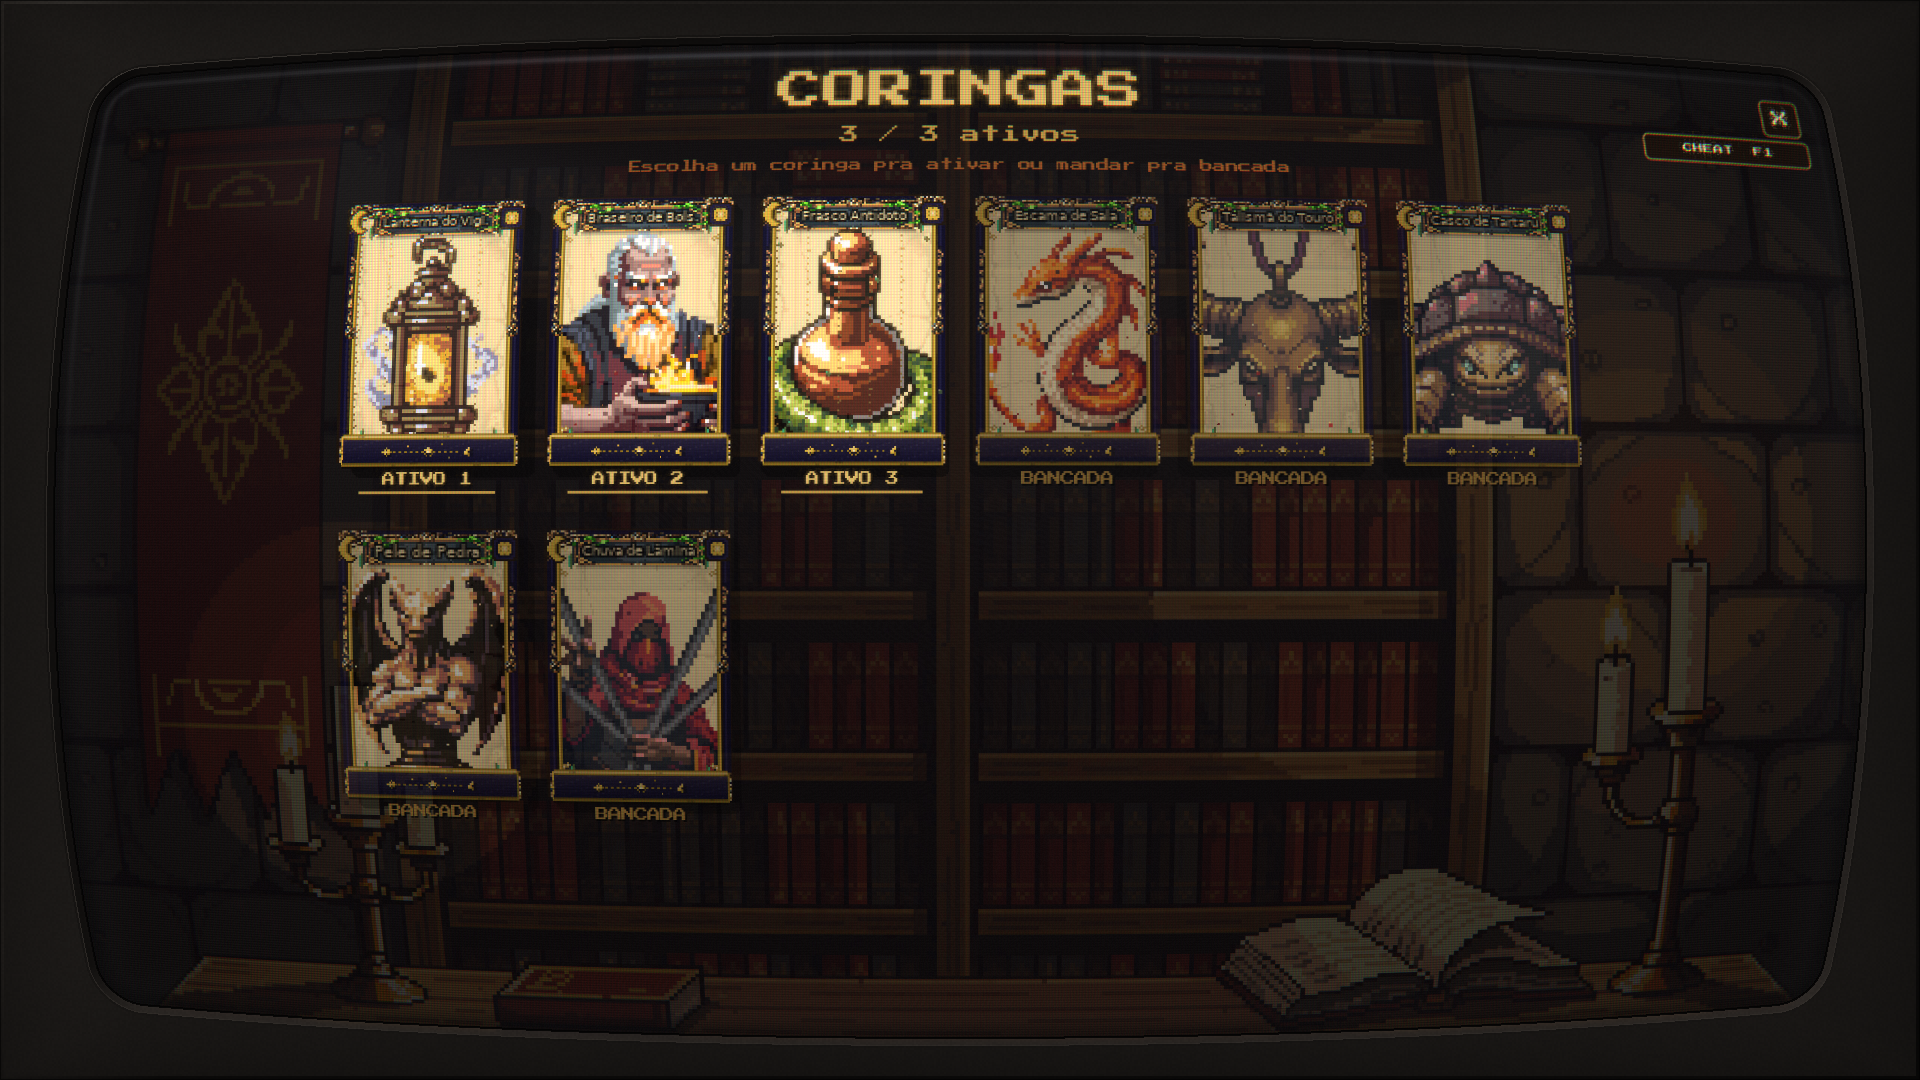
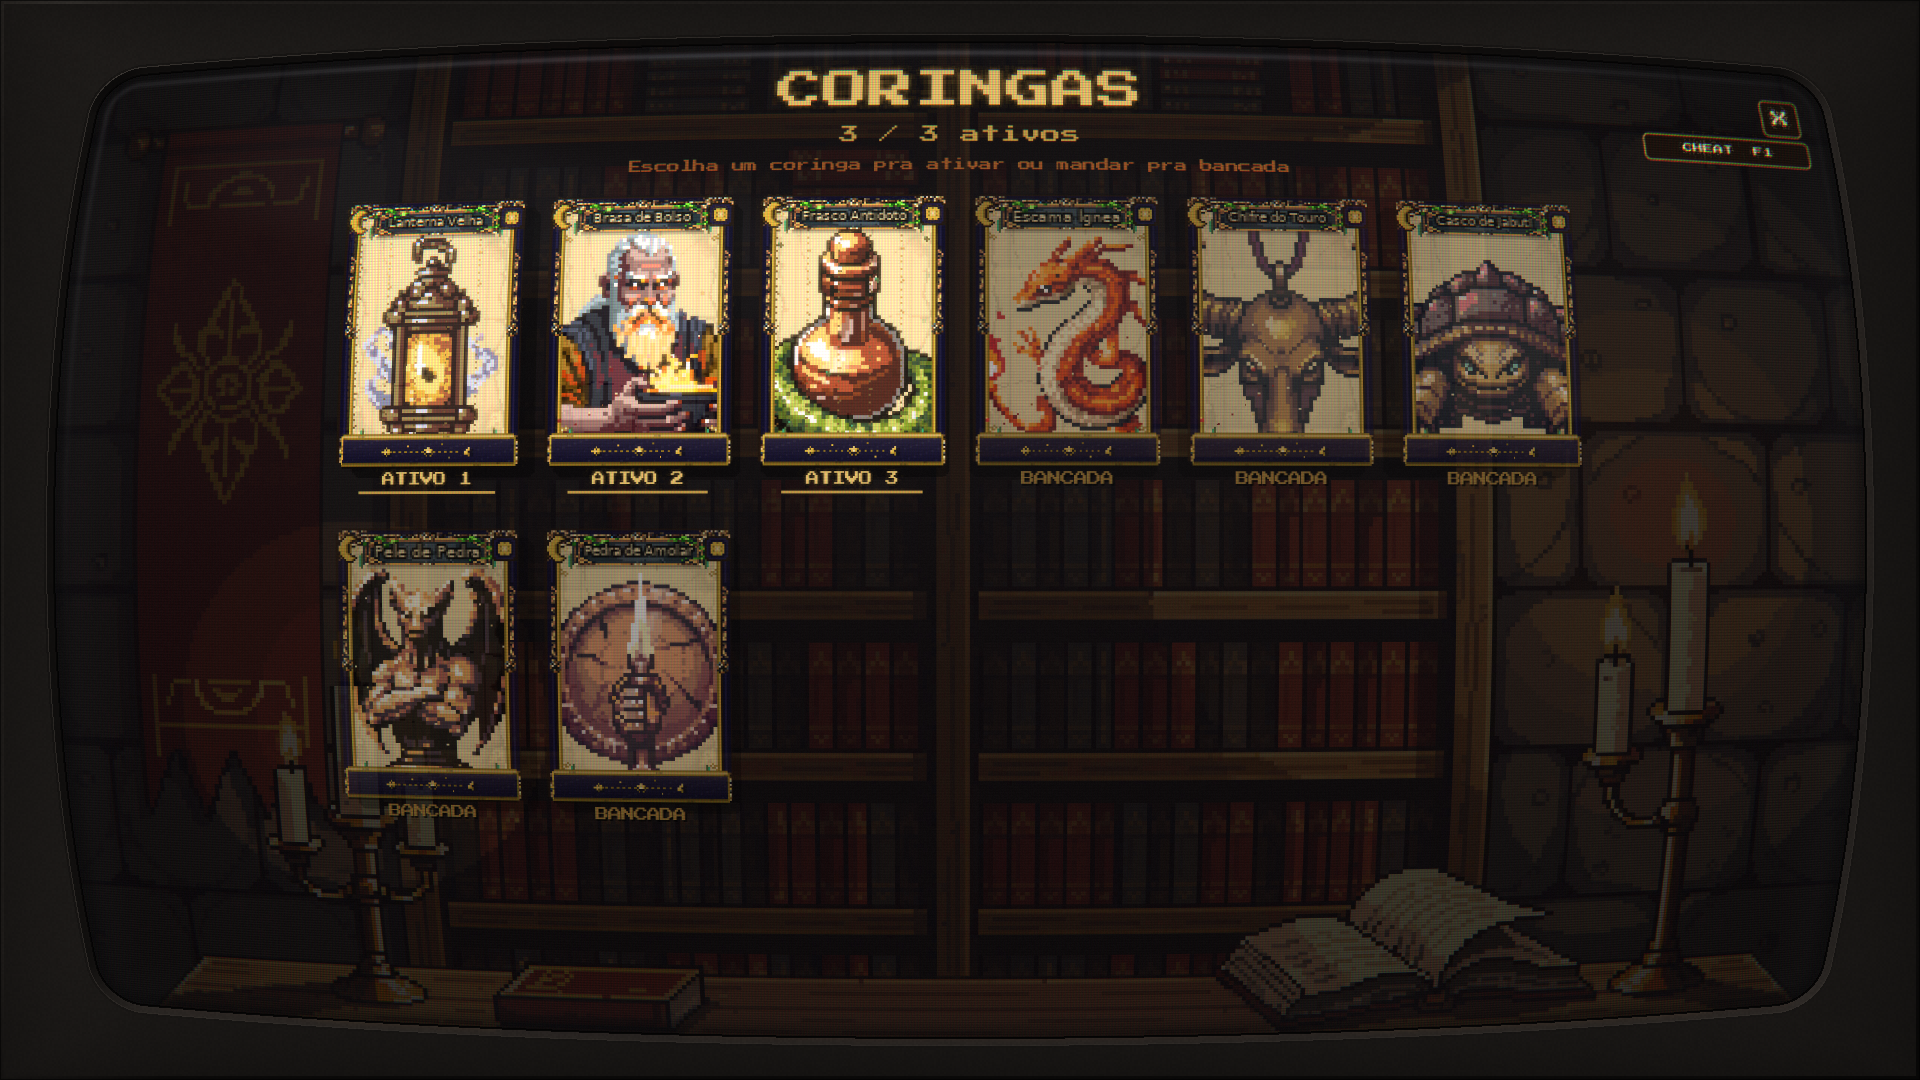
Coringas contra: Pedra de Amolar fura resistência pelo Resistances.level (prévia, combate, piloto e HUD juntos)
Oitavo coringa contra, sobre a API da frente de imunidades: resistência vira
dano normal, imunidade e fraqueza não mudam. Tique 'Perfura!' só no golpe
real (Enemy:takeDamage). Arte PixelLab (3 gerações), idle assado, som
shop-anvil-ring, i18n x5, verbete 'Resistência'. Balanço no main b277a88c:
38% -> 44% (G 50->57, M 23->37, L 40->40).

diff --git a/tools/bake_icon_glint.py b/tools/bake_icon_glint.py
@@ -82,6 +82,12 @@ SPECS = {
         dict(hue=(15, 40), smin=0.55, smax=1.0, vmin=0.55, vmax=1.0,
              box=(14, 14, 50, 34), dir=(0.0, 1.0), width=3.0, gain=0.35, stagger=1),
     ]),
+    "counter_whetstone": dict(frames=12, fps=7, layers=[
+        dict(mode="pulse", hue=(35, 65), smin=0.10, smax=1.0, vmin=0.80, vmax=1.0,
+             box=(24, 0, 40, 30), glow=(255, 248, 210), gain=0.5, stagger=1),
+        dict(hue=(10, 35), smin=0.35, smax=1.0, vmin=0.45, vmax=1.0,
+             dir=(1.0, 0.3), width=4.0, gain=0.4, stagger=1),
+    ]),
     "counter_antidote": dict(frames=12, fps=7, layers=[
         dict(hue=(15, 45), smin=0.30, smax=1.0, vmin=0.45, vmax=1.0,
              box=(0, 0, 64, 46), dir=(1.0, 0.4), width=4.0, gain=0.55,

diff --git a/tools/pixellab_counter_jokers.py b/tools/pixellab_counter_jokers.py
@@ -79,6 +79,14 @@ SUBJECTS = {
         "warrior bust whose skin turns to grey stone from the chest up, "
         "an arrow shattering on the stone shoulder, stern face",
     ],
+    "counter_whetstone": [
+        "grim old weaponsmith bust drawing a long sword blade across a grey "
+        "whetstone, bright sparks flying, scarred face lit by the sparks",
+        "grey whetstone block bound in iron bands with a dagger blade resting "
+        "on it, sparks flying from the edge, front view",
+        "armored gauntlet gripping a glowing sharpened spearhead that pierces "
+        "through a cracked round shield, sparks, front view",
+    ],
 }
 
 

diff --git a/memory/counter_jokers.md b/memory/counter_jokers.md
@@ -1,6 +1,6 @@
 ---
 name: counter_jokers
-description: Out/2026. Sete coringas CONTRA (incomuns, neutros): Lanterna (névoa e véu), Braseiro (Geada do Monarca), e cinco imunidades a debuff no jogador (Veneno, Queimadura, Fraco, Frágil, Vulnerável). Lógica só em src/systems/CounterJokers.lua com um gancho por ameaça; oferta pesa pela ameaça do ato atual/seguinte; piloto troca na bancada no início do ato.
+description: Out/2026. Oito coringas CONTRA (incomuns, neutros): Lanterna (névoa e véu), Brasa (Geada do Monarca), cinco imunidades a debuff no jogador (Veneno, Queimadura, Fraco, Frágil, Vulnerável) e Pedra de Amolar (fura RESISTÊNCIA do inimigo, nunca imunidade). Lógica só em src/systems/CounterJokers.lua com um gancho por ameaça; oferta pesa pela ameaça do ato atual/seguinte; piloto troca na bancada no início do ato.
 type: project
 ---
 
@@ -9,7 +9,7 @@ type: project
 Pedido do dono: "coringas, não tão raros, que ajudem a gente: ver através da névoa,
 imunidade a veneno, contra o congelamento... que a gente possa equipar e desequipar".
 
-## As 7 cartas (`src/data/cards/basic.lua`, `class = "basic"`, `rarity = "uncommon"`)
+## As 8 cartas (`src/data/cards/basic.lua`, `class = "basic"`, `rarity = "uncommon"`)
 
 | id | nome | efeito | ameaça (atos) |
 |---|---|---|---|
@@ -20,6 +20,7 @@ imunidade a veneno, contra o congelamento... que a gente possa equipar e desequi
 | joker_counter_weak | Chifre do Touro | `counter_debuff` weak | todos |
 | joker_counter_frail | Casco de Jabuti | `counter_debuff` frail | quase todos |
 | joker_counter_vulnerable | Pele de Pedra | `counter_debuff` vulnerable | vários |
+| joker_counter_whetstone | Pedra de Amolar | `counter_pierce`: resistência (×0,5) vira dano normal; imune e fraco não mudam | criaturas com `resist` em `Enemies.RESIST` (todos os atos) |
 
 Situacional por desenho: forte contra a ameaça, NADA fora dela. O que dá o
 valor é trocar na bancada (J) entre atos.
@@ -27,17 +28,22 @@ valor é trocar na bancada (J) entre atos.
 ## Onde mora
 
 - Lógica: `src/systems/CounterJokers.lua` (`blocksDebuff`, `frostGain`,
-  `freezeCount`, `filterVisibility`, `actThreats`, `offerWeight`, `pilotScore`).
+  `freezeCount`, `filterVisibility`, `piercesResist`, `notePierce`, `actThreats`, `offerWeight`, `pilotScore`).
 - Ganchos (uma linha cada, nada de lógica fora do módulo):
   - `Game:_pushEnemyTurn...` beat `enemy.debuff.*`: `blocksDebuff` antes do `addDebuff`.
   - `BossMechanics.applyIntentStep` (frost_gain) e `BM.onPlayerDraw` (freeze).
   - `IntentVisibility.resolve`: o retorno passa por `filterVisibility` DEPOIS de
     rolar, então o stream "misc" é idêntico com ou sem Lanterna (trava no teste).
     A causa vira `"lantern"`.
-  - `CardRegistry:pickRewardCard`: peso × `offerWeight` (1 se a ameaça está no
-    ato atual ou no seguinte, `IDLE_OFFER_WEIGHT` 0,35 se não).
+  - `CardRegistry:pickRewardCard`: peso × `offerWeight` (`OFFER_WEIGHT` 0,4 se a
+    ameaça está no ato atual ou no seguinte, `IDLE_OFFER_WEIGHT` 0,12 se não; com
+    1,0/0,35 o mago caiu de 27% para 15% em 60 runs: diluía a loja dele).
   - `Game:new` registra o jogo (`CounterJokers.bind`, tabela fraca); a Lanterna
     acha o jogo pelo inimigo (`gameOf(enemy)`), porque `resolve` só recebe o inimigo.
+  - `Resistances.level` (fonte única da frente de imunidades): `resist` vira nil
+    com a Pedra ativa, então combate, prévia, piloto e selos do HUD (`entries`)
+    mudam juntos. O tique sai só no golpe real: `Enemy:takeDamage` chama
+    `notePierce` quando a tabela crua dizia `resist` e o nível saiu nil.
 - O intent continua CONGELADO e exato: o Braseiro só tira a Geada que chegaria
   (mecânica só diminui o anunciado); a Lanterna só muda a leitura.
 - Ameaça por ato é DERIVADA dos kits (`src/data/enemies.lua`: debuffs dos
@@ -47,18 +53,20 @@ valor é trocar na bancada (J) entre atos.
 ## Feedback
 
 - Tique do coringa no slot (`notifyJokerProc`, caminho direto) com rótulo
-  `counter_jokers.proc.{immune,frost,thaw,sight}` nos 5 locales.
+  `counter_jokers.proc.{immune,frost,thaw,sight,pierce}` nos 5 locales.
 - Assinatura sonora = SFX existente copiado para `audio/sfx/joker-sig/`
   (lanterna=scene-lamp-creak, braseiro=fork-hover-fire, antídoto=shop-potion-bubble,
   salamandra=impact-fire, touro=strength-gain, tartaruga=card-play-defense,
-  pedra=scene-stone-thud). Nenhum gerado; lacuna: sons próprios se o dono pedir.
+  pedra=scene-stone-thud, amolar=shop-anvil-ring). Nenhum gerado; lacuna: sons próprios se o dono pedir.
 - Glossário (`src/data/keywords.lua`, no FIM da lista para não roubar vaga das
-  3 palavras das cartas antigas): immune, fog, frost, frail, burn.
+  3 palavras das cartas antigas): immune, fog, frost, frail, burn, resist.
+- Popup do tique preso dentro da tela (`FloatingText` `clampFrac`, usado pelo
+  `JokerProcFx`): no slot 1 o "Imune: Veneno" saía cortado pela borda do CRT.
 
 ## Arte
 
 `tools/pixellab_counter_jokers.py run|fetch|contact|pick` (create_map_object
-64x64, receita dos coringas de combo; 21 gerações, 3 variantes por carta).
+64x64, receita dos coringas de combo; 24 gerações, 3 variantes por carta).
 Pranchas em `tools/preview_out/coringas_contra/arte/`. Idle: salamandra pelo v3
 (chama da cauda, frames 4); as outras ASSADAS em `tools/bake_icon_glint.py`
 (v3 da lanterna fazia a névoa sumir e voltar; o do braseiro mexia o rosto do
@@ -82,9 +90,23 @@ código do jogo.
   (`CONTRA_ONLY=lantern,brazier,poison,...,manager`) → save dir
   `coringas_contra/`, cópia em `tools/preview_out/coringas_contra/`.
 
-## Imunidades do INIMIGO (frente IMMUNITY)
+## Balanço (expert, 30 runs/classe, seeds 720000, --procs 3)
 
-Não existe ainda coringa que fure resistência de inimigo. Proposta de API para
-quando a frente IMMUNITY fechar: efeito `counter_pierce` lido por
-`CounterJokers.piercesImmunity(game, kind)` e consultado pelo ponto único onde
-a imunidade do inimigo zera o dano/status (EffectSystem e DamagePreview).
+| base | G | M | L | total |
+|---|---|---|---|---|
+| main 42f99d50 (sem contra) | 47% | 40% | 40% | 42% |
+| com os 7 contra (peso 0,4/0,12) | 57% | 37% | 40% | 44% |
+| main b277a88c (imunidades, sem contra) | 50% | 23% | 40% | 38% |
+| b277a88c + os 8 contra | 57% | 37% | 40% | 44% |
+
+Mago 60 runs (seeds 730000): 27% sem, 15% com peso 1,0/0,35, 23% com 0,4/0,12.
+Relatórios em `reports/balance/contra_*`.
+
+## Pendências conhecidas
+
+- O selo do intent mostra o debuff que o coringa vai barrar (o jogador não vê de
+  antemão que está protegido; só o tique no golpe).
+- O expert_full quase nunca pega um contra (pickBySim simula o ato atual, onde a
+  ameaça pode não estar); a bancada troca quando ele os possui.
+- `test_card_audit` (mage_meteor_strike) e `test_landmark_fx` (sombra do castelo)
+  falham no main b277a88c sem estes coringas: não são desta frente.

diff --git a/CLAUDE.md b/CLAUDE.md
@@ -249,7 +249,7 @@ Todas herdam de `src/cards/base/Card.lua`. Toda carta tem **`tags = {}`** (array
 - **IMUNIDADE / RESISTÊNCIA / FRAQUEZA por criatura** (24/Out/2026, `memory/enemy_immunities.md`): todo dano no inimigo tem TIPO (`physical/fire/ice/lightning/dark/arcane/poison`; carta pelo elemento da tag, orbe pelo tipo, Queimadura = fogo) e `Enemy:takeDamage(dano, tipo)` aplica imune ×0 / resiste ×0,5 / fraco ×1,5 ANTES de Vulnerável e Bloqueio. Tabela por lore em `Enemies.RESIST` (`src/data/enemies.lua`); conta ÚNICA em `src/systems/Resistances.lua`, lida pelo combate, `DamagePreview.simulate`, piloto e HUD. O status sempre entra (fica verde), só o TIQUE sai 0/metade com "IMUNE" no lugar do número (`src/ui/ResistFx.lua`). Ícones à esquerda da barra de vida (`src/ui/ResistBadges.lua`), dica na carta da mão. Knob `BALANCE_IMMUNITIES=0`. Trava: `test_immunities`.
 - **ESPINHOS são ESTADO, não dano na hora** (Set/2026, `memory/combat_beats.md`): `on_defend_damage` ARMA `player:addBuff("thorn", 1, N)` quando a defesa é jogada; o dano só sai quando o **inimigo ataca** (beat `player.thorn_reflect` → `EffectSystem:fireThornReflect`), e o buff expira no upkeep seguinte. Antes o reflexo acontecia ao JOGAR a carta, mesmo que o inimigo nunca atacasse. A regra P2.3 sobrevive: joker ARMA 1×/turno, carta arma por carta — mesmo teto por turno, momento diferente. Travas em `test_beats` + `test_effects_full`.
 - **Ofertas por ato** (rebalance v2): pesos de raridade vêm de `ActSystem.getRarityWeights(ato)` (A1 70/25/5/0 → A3 15/45/32/8); neutras `class="basic"` ofertáveis com peso 0.6; afinidade com cap progressivo 0.9/1.2/1.5 e blacklist de tags genéricas; elite→minRarity uncommon, boss→rare; oferta nunca repete joker possuído. **Coringa na recompensa é RARO por tipo de nó** (14/Out/2026, pedido do dono): `Config.Offers.REWARD_JOKER_CHANCE` = comum 4% · elite 40% · mini-chefe 40% · chefe 70% de vir UM coringa na recompensa inteira (antes: comum 29 a 92%, chefe ~99% e quase sempre 2+). Um sorteio só no stream "shop" em `ShopSystem:generateOffers` decide a vaga (a ÚLTIMA); as outras vagas pedem `jokers="none"` ao `pickRewardCard`. A loja não muda. Knob: `--joker-odds` / `BALANCE_JOKER_ODDS`. Quando sai coringa, a `CardRewardScreen` faz a REVELAÇÃO RARA (`src/ui/RareReveal.lua` via `CardRewardScreen:_revealRare(inst, {delay})`): ele entra por último depois de uma pausa, brilho de conquista (`RevealGlow`) que cresce na carga e assenta por baixo das vizinhas, materialize dourado, som do coringa, selo "ACHADO RARO"; `reducedMotion` mantém selo, brilho parado e som. Trava: `test_reward_jokers`. **Custo aceito pelo dono:** o expert_full caiu de 53/53/50 para 37/40/30 (G/M/L, média 36%) e o inimigo NÃO foi compensado, por decisão dele ("tira os coringas dos drops mesmo... a gente tem a loja; na loja a pessoa pode ficar rolando para comprar coringas e fazer economia para isso"): o coringa passa a vir da loja e da economia. Ver `memory/rng_and_offers.md`.
-- **CORINGAS CONTRA** (24/Out/2026, `memory/counter_jokers.md`): 7 incomuns neutros que anulam UMA ameaça cada (`counter_sight` névoa/véu, `counter_frost` Geada do Monarca, `counter_debuff` Veneno/Queimadura/Fraco/Frágil/Vulnerável no jogador) e nada fora dela: o valor está em trocar na bancada (J) entre atos. Lógica só em `src/systems/CounterJokers.lua`; ganchos de uma linha no beat de debuff do `Game`, no `BossMechanics` (Geada), no fim do `IntentVisibility.resolve` (depois de rolar: stream "misc" intocado) e no peso do `CardRegistry:pickRewardCard` (ameaça fora do ato atual/seguinte = ×0,35). Trava: `test_counter_jokers`.
+- **CORINGAS CONTRA** (24/Out/2026, `memory/counter_jokers.md`): 8 incomuns neutros que anulam UMA ameaça cada (`counter_sight` névoa/véu, `counter_frost` Geada do Monarca, `counter_debuff` Veneno/Queimadura/Fraco/Frágil/Vulnerável no jogador, `counter_pierce` resistência do inimigo vira dano normal via `Resistances.level`, imunidade nunca) e nada fora dela: o valor está em trocar na bancada (J) entre atos. Lógica só em `src/systems/CounterJokers.lua`; ganchos de uma linha no beat de debuff do `Game`, no `BossMechanics` (Geada), no fim do `IntentVisibility.resolve` (depois de rolar: stream "misc" intocado) e no peso do `CardRegistry:pickRewardCard` (0,4 com a ameaça no ato atual/seguinte, 0,12 fora). Trava: `test_counter_jokers`.
 - **Triggers**: `on_attack_heal`, `on_defend_damage`, `regen_per_turn`, `damage_per_turn`
 
 Ver `memory/gameplay_systems.md` para referência completa.

diff --git a/memory/MEMORY.md b/memory/MEMORY.md
@@ -92,6 +92,6 @@
 - [enemy_entrances.md](enemy_entrances.md): entradas por inimigo (22/Out/2026): motor EnemyEntrance sobre a viagem (tipos andar/investida/brotar/acordar/mergulho/condensar/flanco/montar), dados por criatura em src/data/enemy_entrances.lua, ancoras como props nascidas na crista, clipes com fallback no idle, galeria `lovec . entradas`, travas test_enemy_entrances + test_scene_continuity ::entradas
 - [enemy_life.md](enemy_life.md): monstros vivos parados (23/Out/2026): EnemyLife agenda fidgets sobre o idle (entram/saem no quadro 0, nunca ocupado, ataque/dano interrompem), fx de pixel por tipo em pool fixo (smoke/embers/drips/spores/flies/mist/frost/ash/glint/bubbles), estados por status (EnemyStates: cor/ritmo/postura + 2 tipos de particula, clip state_* opcional), dados em src/data/enemy_life/<id>.lua, galeria `love . vida` (S = estados), trava test_enemy_life
 - [menu_branding.md](menu_branding.md): logotipo do trailer no menu (24/Out/2026): selo + GRIMOIRE assados por tools/menu_brand.py, escala inteira (MenuBrand.layout), vinheta do trailer so na 1a entrada (pula com qualquer entrada, reducedMotion parado), varredura/brilho/brasas parados, ideias para o dono; trava test_menu_brand
-- [counter_jokers.md](counter_jokers.md): coringas CONTRA (24/Out/2026): 7 incomuns neutros (Lanterna = névoa/véu, Brasa = Geada do Monarca, imunidade a Veneno/Queimadura/Fraco/Frágil/Vulnerável), lógica só em src/systems/CounterJokers.lua com 1 gancho por ameaça, oferta pesa pela ameaça do ato atual/seguinte, piloto troca na bancada; trava test_counter_jokers
+- [counter_jokers.md](counter_jokers.md): coringas CONTRA (24/Out/2026): 8 incomuns neutros (Lanterna = névoa/véu, Brasa = Geada do Monarca, imunidade a Veneno/Queimadura/Fraco/Frágil/Vulnerável, Pedra de Amolar fura resistência), lógica só em src/systems/CounterJokers.lua com 1 gancho por ameaça, oferta pesa pela ameaça do ato atual/seguinte, piloto troca na bancada; trava test_counter_jokers
 - [enemy_immunities.md](enemy_immunities.md): imunidade/resistência/fraqueza por criatura (24/Out/2026): tipos de dano, tabela por lore (`Enemies.RESIST`), conta única `Resistances`, prévia/piloto/HUD na mesma API, "IMUNE" no tique, trava test_immunities
 - [Abertura de pacote: Balatro x Grimoire](pack_opening_study.md) — estudo batida a batida (tempos, sons, fundo, escolha, pular), lacunas e a v2 (clima por tipo, carga, rasgo com a própria arte, cartas dadas, carimbo de raridade, adiantar/pular, travas)
